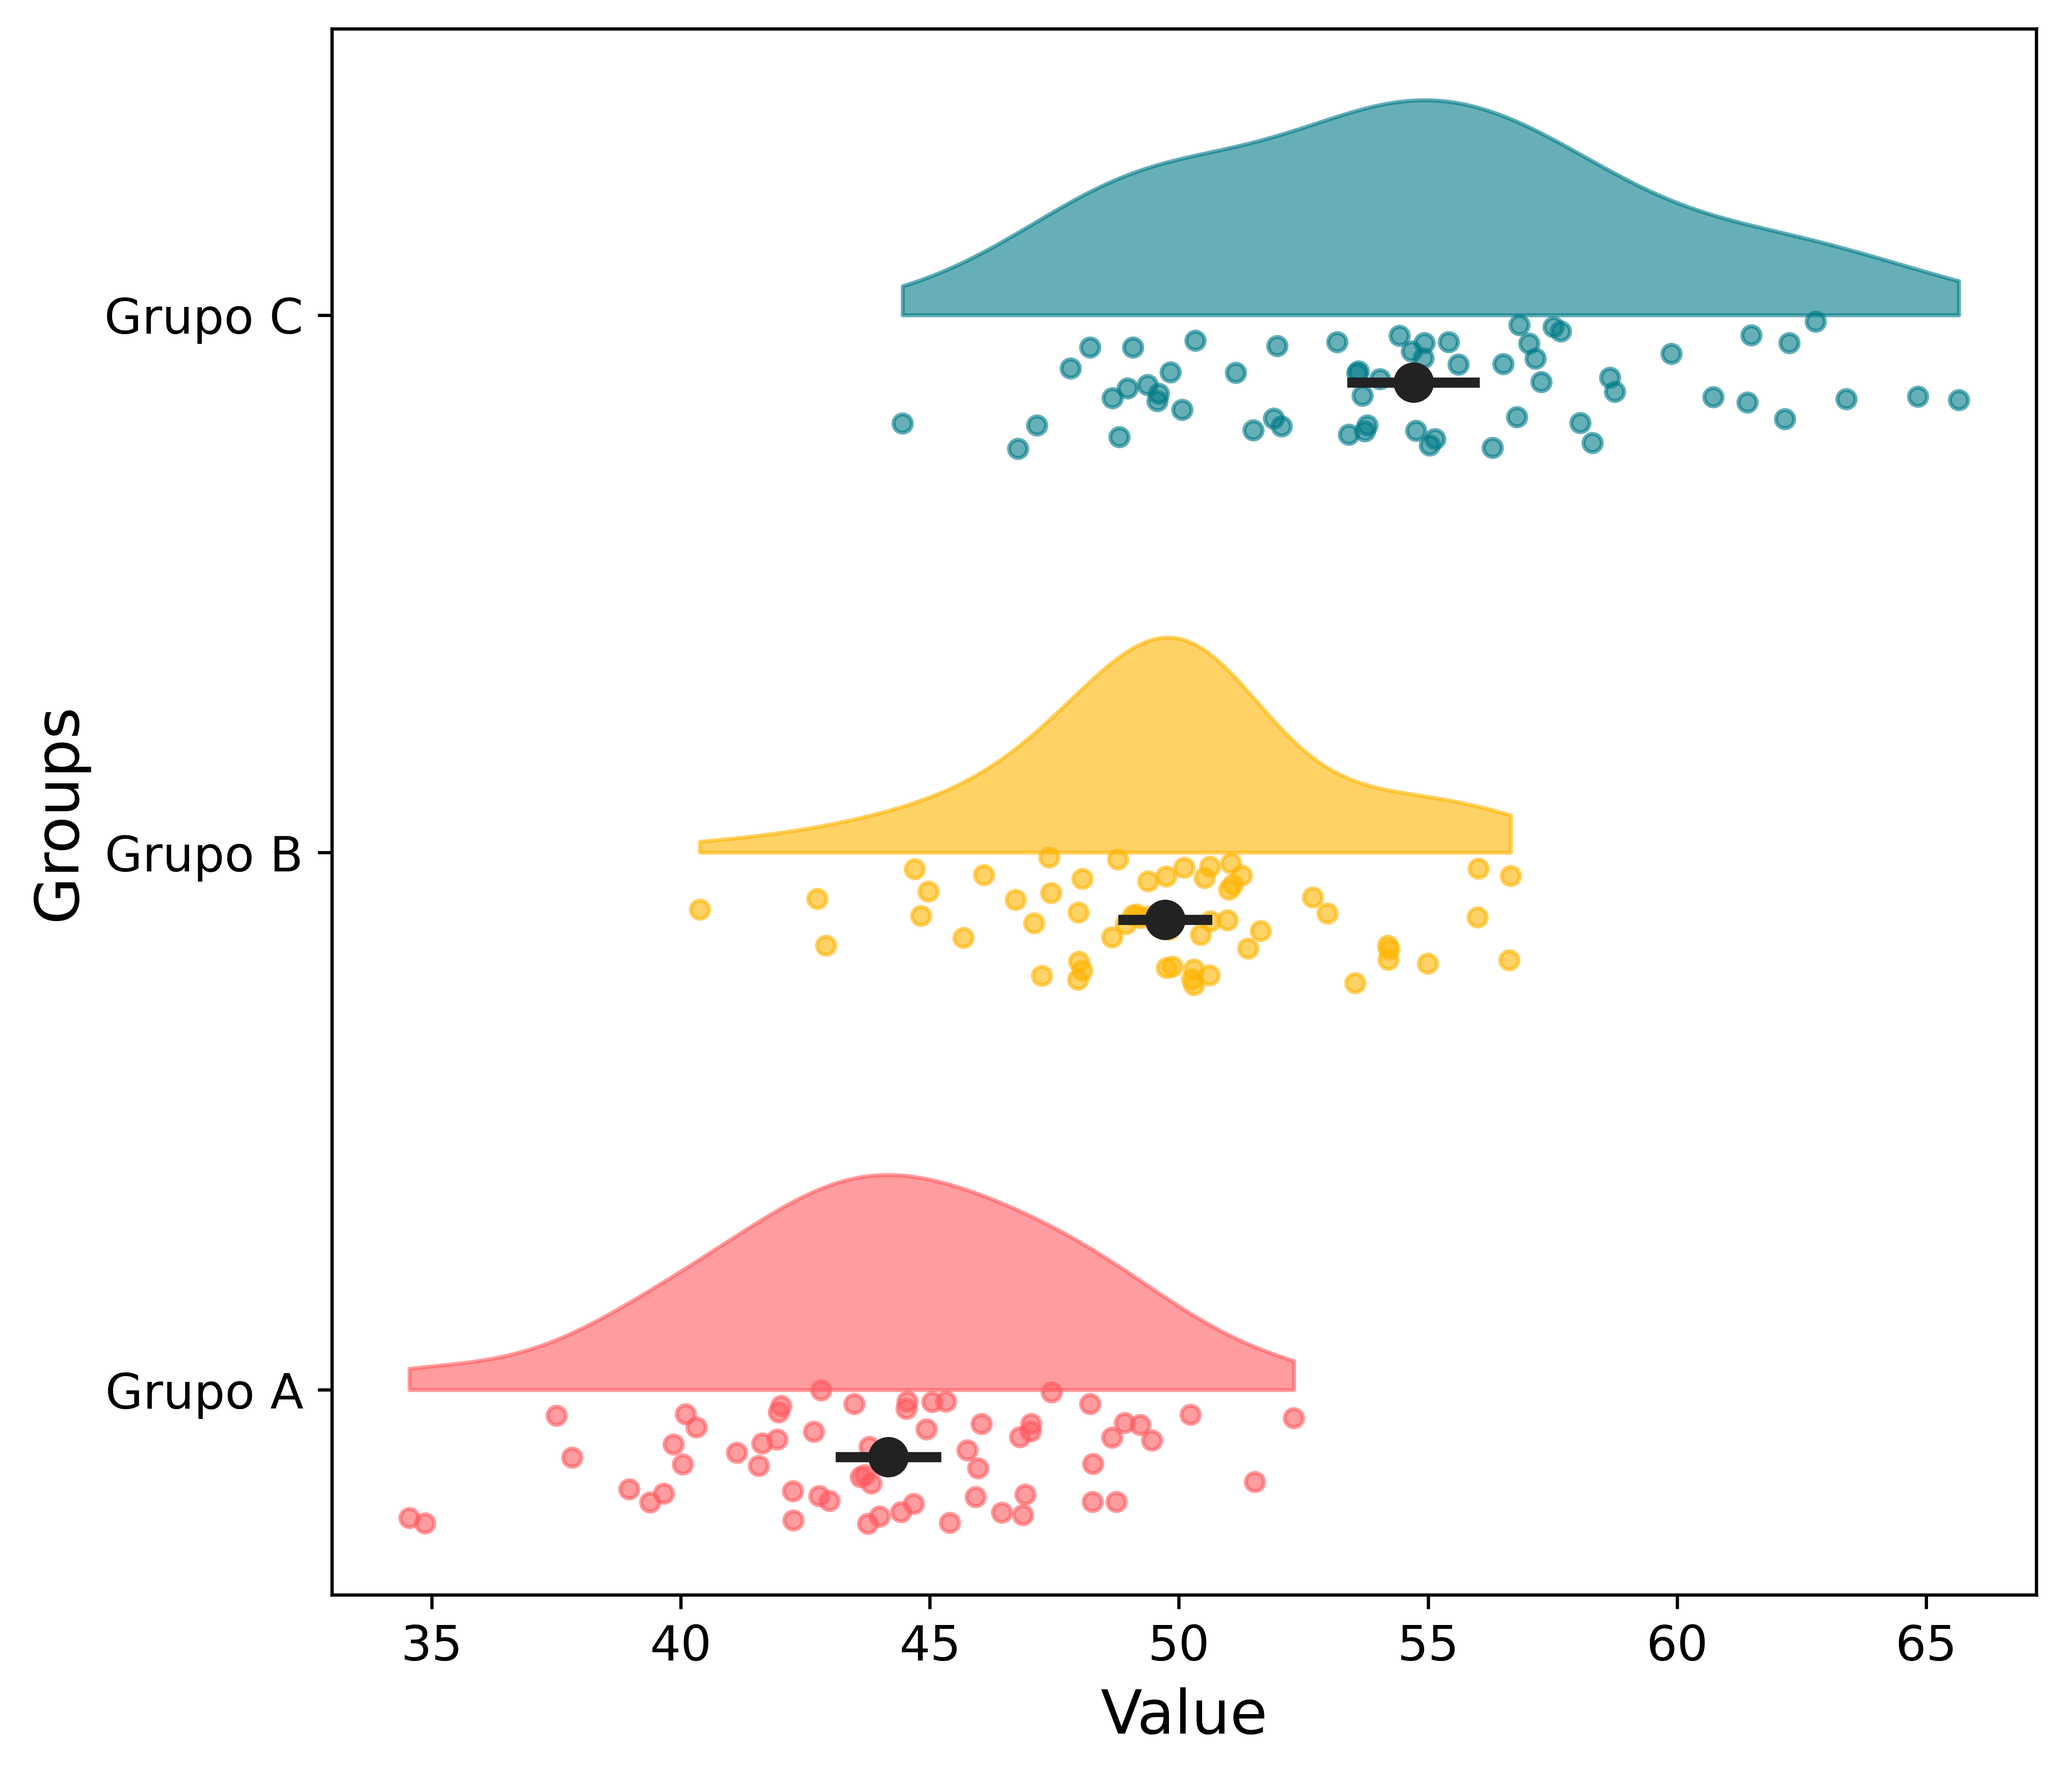
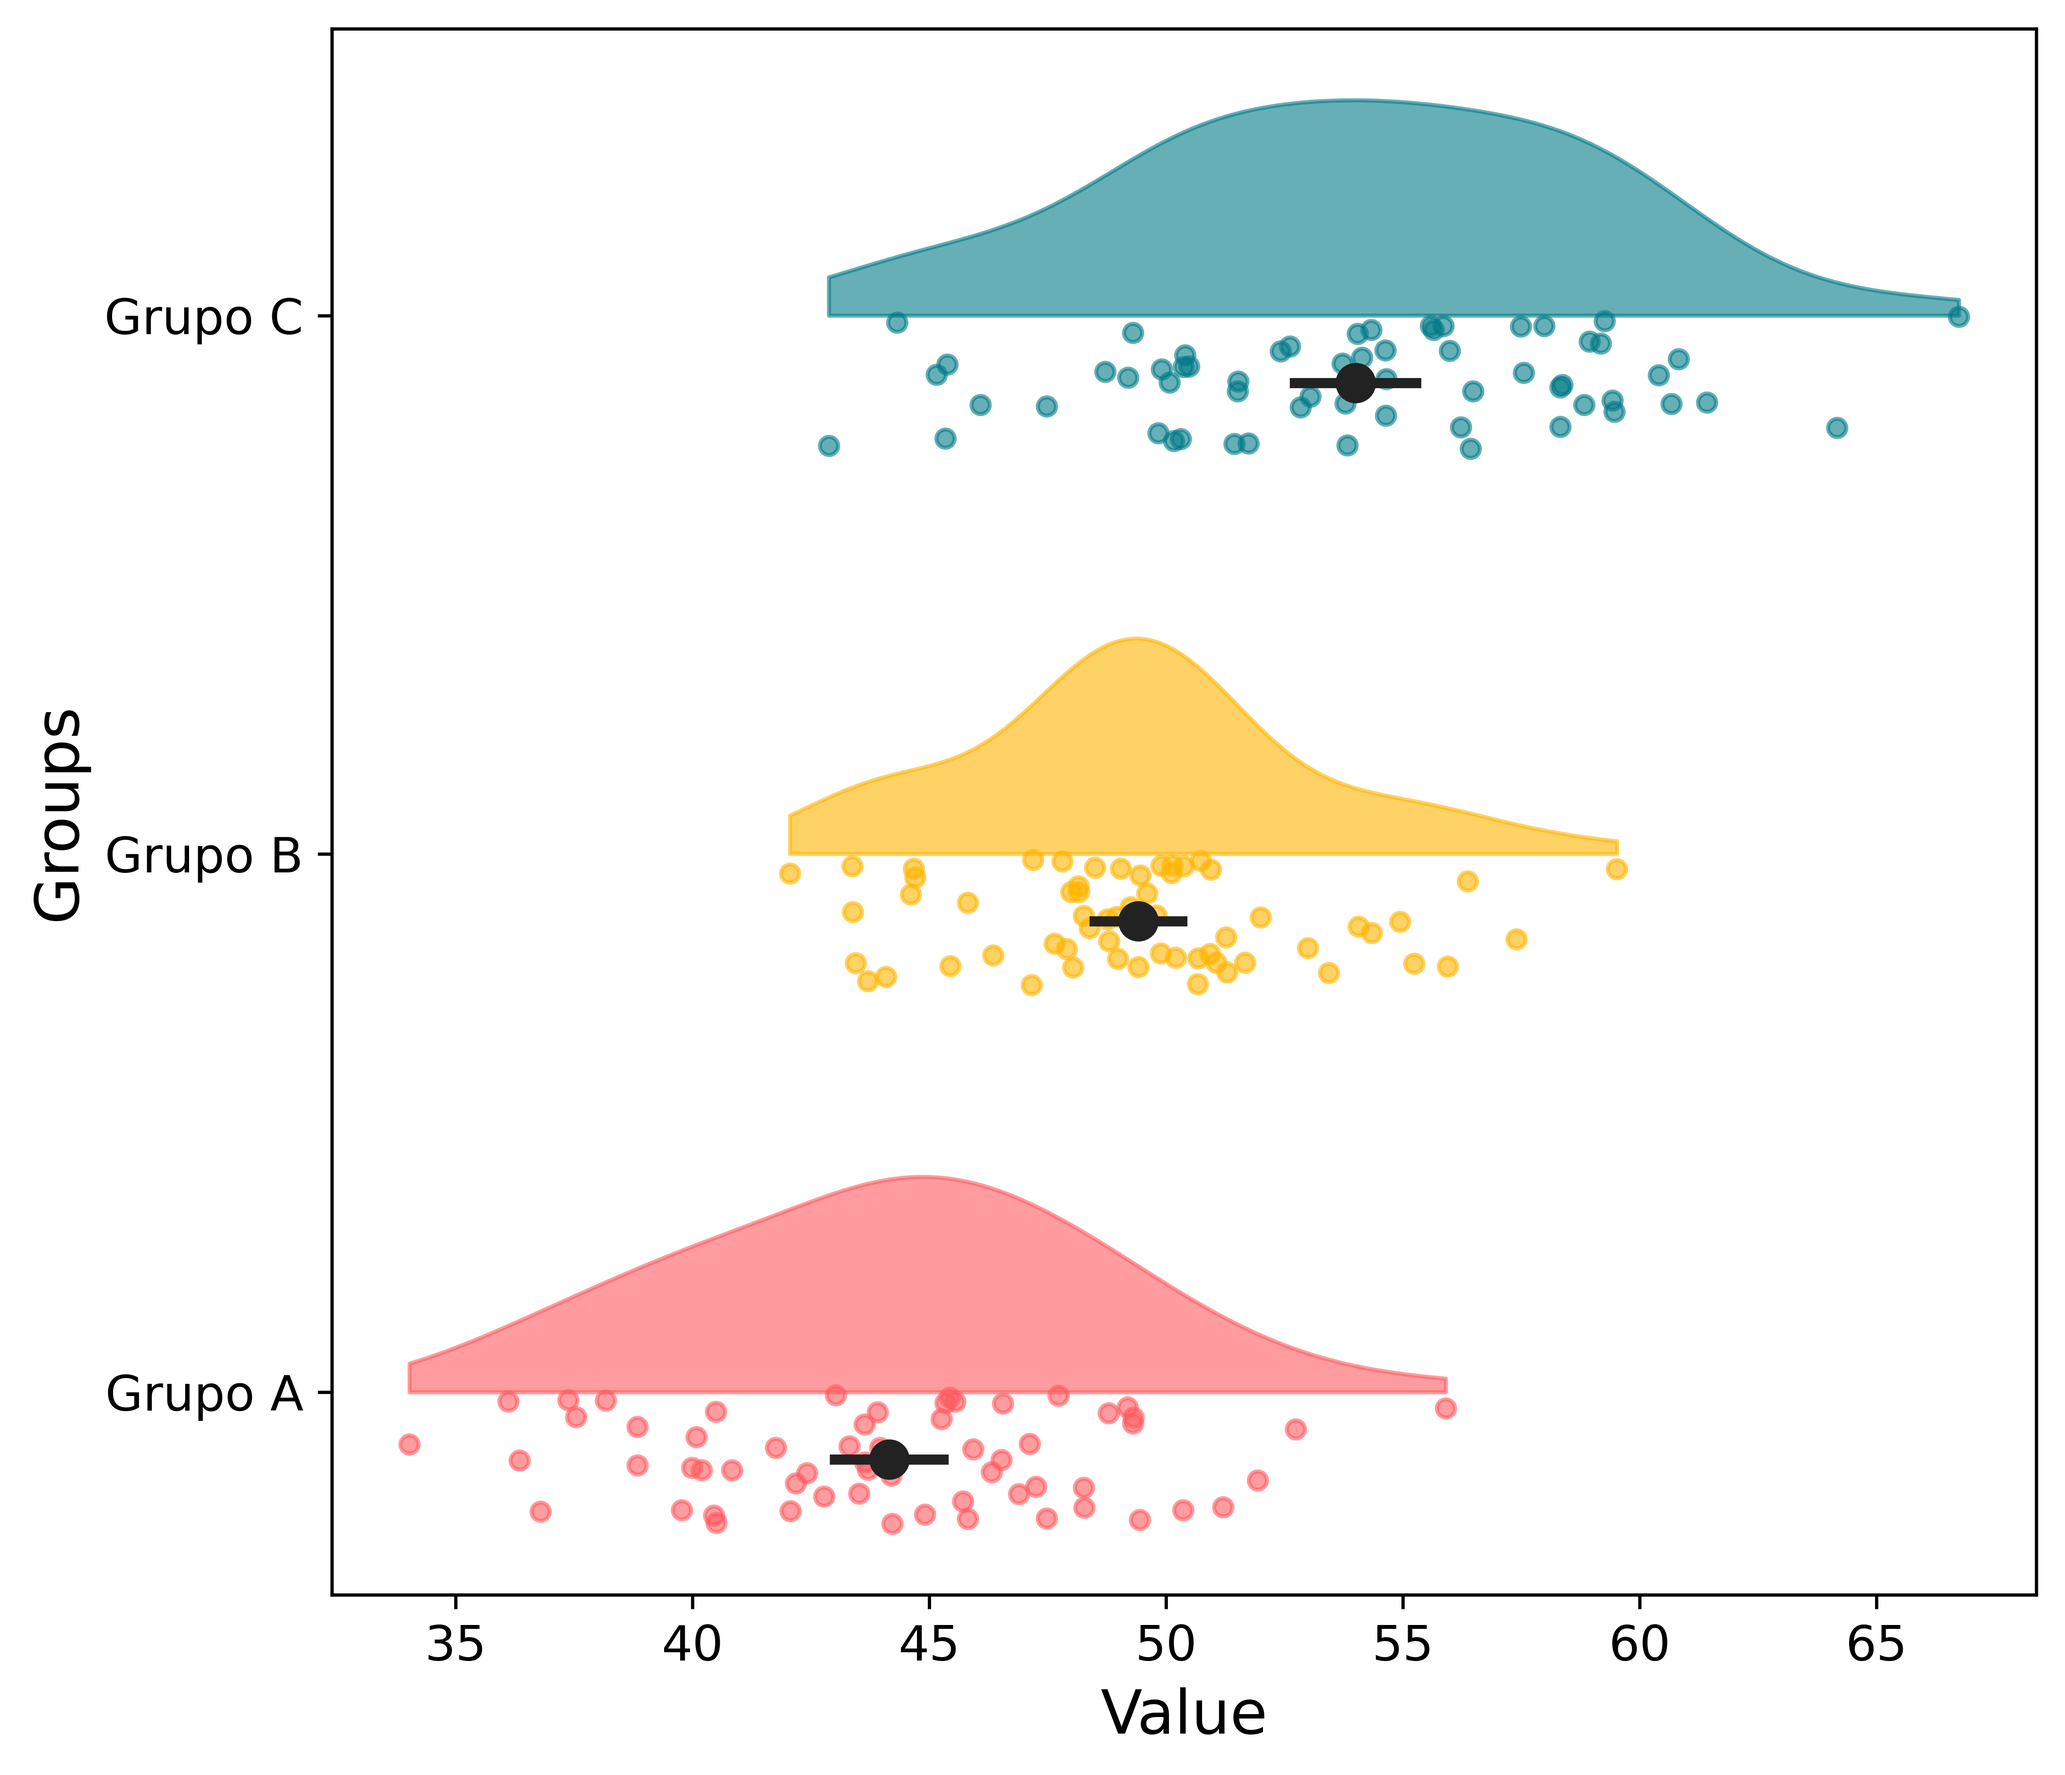
Agregando CI CD

diff --git a/src/program_launcher.py b/src/program_launcher.py
@@ -1,0 +1,39 @@
+#!/usr/bin/python3
+
+'''
+## ubuntu ##
+python3 -m venv venv-temporal
+source venv-temporal/bin/activate
+pip install --upgrade pip
+
+## windows ##
+python -m venv venv-temporal
+venv-temporal\Scripts\activate
+python -m pip install --upgrade pip
+
+pip install pyinstaller pyinstaller-hooks-contrib
+pip install -r requirements.txt
+cd src
+
+## ubuntu ##
+python3 -m PyInstaller --onefile --windowed --name graph_generator_assistant --add-data "graph_generator_assistant/icons:icons" --collect-all PyQt5  program_launcher.py
+
+
+## windows ##
+python -m PyInstaller --onefile --windowed --name graph_generator_assistant --add-data "graph_generator_assistant/icons;icons" --collect-all PyQt5  program_launcher.py
+
+'''
+
+import os
+from PyQt5.QtCore import QLibraryInfo
+
+os.environ["QT_QPA_PLATFORM_PLUGIN_PATH"] = QLibraryInfo.location(
+    QLibraryInfo.PluginsPath
+)
+
+
+from graph_generator_assistant.program import main
+
+if __name__ == "__main__":
+    main()
+

diff --git a/src/graph_generator_assistant/about.py b/src/graph_generator_assistant/about.py
@@ -1,6 +1,6 @@
 # about.py
 
-__version__ = "0.1.4"
+__version__ = "0.1.5"
 __package__ = "graph_generator_assistant"
 __program_name__ = "graph-generator-assistant"
 __author__ = "Fernando Pujaico Rivera" 
